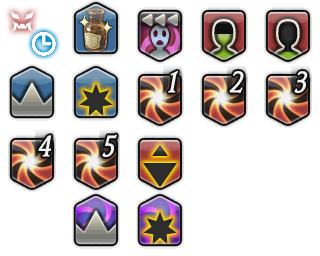
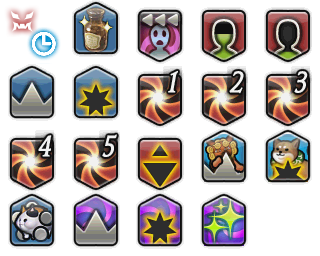
Promo images added/updated. More Status.

diff --git a/DeepDungeonTracker/Data/BossStatusTimerManager.cs b/DeepDungeonTracker/Data/BossStatusTimerManager.cs
@@ -24,9 +24,17 @@ public sealed class BossStatusTimerManager : IDisposable
 
     private ConditionEvent Enervation { get; } = new();
 
+    private ConditionEvent DamageUpHeavenOnHigh { get; } = new();
+
+    private ConditionEvent VulnerabilityDownHeavenOnHigh { get; } = new();
+
+    private ConditionEvent RehabilitationHeavenOnHigh { get; } = new();
+
     private ConditionEvent DamageUpEurekaOrthos { get; } = new();
 
     private ConditionEvent VulnerabilityDownEurekaOrthos { get; } = new();
+
+    private ConditionEvent RehabilitationEurekaOrthos { get; } = new();
 
     public BossStatusTimerManager(BossStatusTimerData bossStatusTimerData)
     {
@@ -48,10 +56,18 @@ public sealed class BossStatusTimerManager : IDisposable
         this.VulnerabilityUp.AddDeactivating(this.VulnerabilityUpDeactivating);
         this.Enervation.AddActivating(this.EnervationActivating);
         this.Enervation.AddDeactivating(this.EnervationDeactivating);
+        this.DamageUpHeavenOnHigh.AddActivating(this.DamageUpHeavenOnHighActivating);
+        this.DamageUpHeavenOnHigh.AddDeactivating(this.DamageUpHeavenOnHighDeactivating);
+        this.VulnerabilityDownHeavenOnHigh.AddActivating(this.VulnerabilityDownHeavenOnHighActivating);
+        this.VulnerabilityDownHeavenOnHigh.AddDeactivating(this.VulnerabilityDownHeavenOnHighDeactivating);
+        this.RehabilitationHeavenOnHigh.AddActivating(this.RehabilitationHeavenOnHighActivating);
+        this.RehabilitationHeavenOnHigh.AddDeactivating(this.RehabilitationHeavenOnHighDeactivating);
         this.DamageUpEurekaOrthos.AddActivating(this.DamageUpEurekaOrthosActivating);
         this.DamageUpEurekaOrthos.AddDeactivating(this.DamageUpEurekaOrthosDeactivating);
         this.VulnerabilityDownEurekaOrthos.AddActivating(this.VulnerabilityDownEurekaOrthosActivating);
         this.VulnerabilityDownEurekaOrthos.AddDeactivating(this.VulnerabilityDownEurekaOrthosDeactivating);
+        this.RehabilitationEurekaOrthos.AddActivating(this.RehabilitationEurekaOrthosActivating);
+        this.RehabilitationEurekaOrthos.AddDeactivating(this.RehabilitationEurekaOrthosDeactivating);
     }
 
     public void Dispose()
@@ -72,10 +88,18 @@ public sealed class BossStatusTimerManager : IDisposable
         this.VulnerabilityUp.RemoveDeactivating(this.VulnerabilityUpDeactivating);
         this.Enervation.RemoveActivating(this.EnervationActivating);
         this.Enervation.RemoveDeactivating(this.EnervationDeactivating);
+        this.DamageUpHeavenOnHigh.RemoveActivating(this.DamageUpHeavenOnHighActivating);
+        this.DamageUpHeavenOnHigh.RemoveDeactivating(this.DamageUpHeavenOnHighDeactivating);
+        this.VulnerabilityDownHeavenOnHigh.RemoveActivating(this.VulnerabilityDownHeavenOnHighActivating);
+        this.VulnerabilityDownHeavenOnHigh.RemoveDeactivating(this.VulnerabilityDownHeavenOnHighDeactivating);
+        this.RehabilitationHeavenOnHigh.RemoveActivating(this.RehabilitationHeavenOnHighActivating);
+        this.RehabilitationHeavenOnHigh.RemoveDeactivating(this.RehabilitationHeavenOnHighDeactivating);
         this.DamageUpEurekaOrthos.RemoveActivating(this.DamageUpEurekaOrthosActivating);
         this.DamageUpEurekaOrthos.RemoveDeactivating(this.DamageUpEurekaOrthosDeactivating);
         this.VulnerabilityDownEurekaOrthos.RemoveActivating(this.VulnerabilityDownEurekaOrthosActivating);
         this.VulnerabilityDownEurekaOrthos.RemoveDeactivating(this.VulnerabilityDownEurekaOrthosDeactivating);
+        this.RehabilitationEurekaOrthos.RemoveActivating(this.RehabilitationEurekaOrthosActivating);
+        this.RehabilitationEurekaOrthos.RemoveDeactivating(this.RehabilitationEurekaOrthosDeactivating);
     }
 
     public void MedicatedActivating() => this.BossStatusTimerData?.Medicated?.Add(new(BossStatusTimer.Medicated));
@@ -110,6 +134,18 @@ public sealed class BossStatusTimerManager : IDisposable
 
     public void EnervationDeactivating() => this.BossStatusTimerData?.Enervation?.LastOrDefault()?.TimerEnd();
 
+    public void DamageUpHeavenOnHighActivating() => this.BossStatusTimerData?.DamageUpHeavenOnHigh?.Add(new(BossStatusTimer.DamageUpHeavenOnHigh));
+
+    public void DamageUpHeavenOnHighDeactivating() => this.BossStatusTimerData?.DamageUpHeavenOnHigh?.LastOrDefault()?.TimerEnd();
+
+    public void VulnerabilityDownHeavenOnHighActivating() => this.BossStatusTimerData?.VulnerabilityDownHeavenOnHigh?.Add(new(BossStatusTimer.VulnerabilityDownHeavenOnHigh));
+
+    public void VulnerabilityDownHeavenOnHighDeactivating() => this.BossStatusTimerData?.VulnerabilityDownHeavenOnHigh?.LastOrDefault()?.TimerEnd();
+
+    public void RehabilitationHeavenOnHighActivating() => this.BossStatusTimerData?.RehabilitationHeavenOnHigh?.Add(new(BossStatusTimer.RehabilitationHeavenOnHigh));
+
+    public void RehabilitationHeavenOnHighDeactivating() => this.BossStatusTimerData?.RehabilitationHeavenOnHigh?.LastOrDefault()?.TimerEnd();
+
     public void DamageUpEurekaOrthosActivating() => this.BossStatusTimerData?.DamageUpEurekaOrthos?.Add(new(BossStatusTimer.DamageUpEurekaOrthos));
 
     public void DamageUpEurekaOrthosDeactivating() => this.BossStatusTimerData?.DamageUpEurekaOrthos?.LastOrDefault()?.TimerEnd();
@@ -117,6 +153,10 @@ public sealed class BossStatusTimerManager : IDisposable
     public void VulnerabilityDownEurekaOrthosActivating() => this.BossStatusTimerData?.VulnerabilityDownEurekaOrthos?.Add(new(BossStatusTimer.VulnerabilityDownEurekaOrthos));
 
     public void VulnerabilityDownEurekaOrthosDeactivating() => this.BossStatusTimerData?.VulnerabilityDownEurekaOrthos?.LastOrDefault()?.TimerEnd();
+
+    public void RehabilitationEurekaOrthosActivating() => this.BossStatusTimerData?.RehabilitationEurekaOrthos?.Add(new(BossStatusTimer.RehabilitationEurekaOrthos));
+
+    public void RehabilitationEurekaOrthosDeactivating() => this.BossStatusTimerData?.RehabilitationEurekaOrthos?.LastOrDefault()?.TimerEnd();
 
     public void Update(BattleChara? enemy)
     {
@@ -139,8 +179,12 @@ public sealed class BossStatusTimerManager : IDisposable
         if (enemy != null)
             this.Enervation.Update(enemy.StatusList.Any(x => x.StatusId == 546));
 
+        this.DamageUpHeavenOnHigh.Update(player.StatusList.Any(x => x.StatusId == 1584));
+        this.VulnerabilityDownHeavenOnHigh.Update(player.StatusList.Any(x => x.StatusId == 1585));
+        this.RehabilitationHeavenOnHigh.Update(player.StatusList.Any(x => x.StatusId == 1586));
         this.DamageUpEurekaOrthos.Update(player.StatusList.Any(x => x.StatusId == 3490));
         this.VulnerabilityDownEurekaOrthos.Update(player.StatusList.Any(x => x.StatusId == 3491));
+        this.RehabilitationEurekaOrthos.Update(player.StatusList.Any(x => x.StatusId == 3492));
     }
 
     public void ResetStatusState()
@@ -153,7 +197,11 @@ public sealed class BossStatusTimerManager : IDisposable
         this.VulnerabilityDown.Update(false);
         this.VulnerabilityUp.Update(false);
         this.Enervation.Update(false);
+        this.DamageUpHeavenOnHigh.Update(false);
+        this.VulnerabilityDownHeavenOnHigh.Update(false);
+        this.RehabilitationHeavenOnHigh.Update(false);
         this.DamageUpEurekaOrthos.Update(false);
         this.VulnerabilityDownEurekaOrthos.Update(false);
+        this.RehabilitationEurekaOrthos.Update(false);
     }
 }

diff --git a/DeepDungeonTracker/Data/BossStatusTimerData.cs b/DeepDungeonTracker/Data/BossStatusTimerData.cs
@@ -69,6 +69,27 @@ public class BossStatusTimerData
     public Collection<BossStatusTimerItem>? SerializationEnervation { get => this.Enervation?.Count > 0 ? this.Enervation : null; private set => this.Enervation = value ?? new(); }
 
     [JsonIgnore]
+    public Collection<BossStatusTimerItem> DamageUpHeavenOnHigh { get; private set; } = new();
+
+    [JsonInclude]
+    [JsonPropertyName("DamageUpHeavenOnHigh")]
+    public Collection<BossStatusTimerItem>? SerializationDamageUpHeavenOnHigh { get => this.DamageUpHeavenOnHigh?.Count > 0 ? this.DamageUpHeavenOnHigh : null; private set => this.DamageUpHeavenOnHigh = value ?? new(); }
+
+    [JsonIgnore]
+    public Collection<BossStatusTimerItem> VulnerabilityDownHeavenOnHigh { get; private set; } = new();
+
+    [JsonInclude]
+    [JsonPropertyName("VulnerabilityDownHeavenOnHigh")]
+    public Collection<BossStatusTimerItem>? SerializationVulnerabilityDownHeavenOnHigh { get => this.VulnerabilityDownHeavenOnHigh?.Count > 0 ? this.VulnerabilityDownHeavenOnHigh : null; private set => this.VulnerabilityDownHeavenOnHigh = value ?? new(); }
+
+    [JsonIgnore]
+    public Collection<BossStatusTimerItem> RehabilitationHeavenOnHigh { get; private set; } = new();
+
+    [JsonInclude]
+    [JsonPropertyName("RehabilitationHeavenOnHigh")]
+    public Collection<BossStatusTimerItem>? SerializationRehabilitationHeavenOnHigh { get => this.RehabilitationHeavenOnHigh?.Count > 0 ? this.RehabilitationHeavenOnHigh : null; private set => this.RehabilitationHeavenOnHigh = value ?? new(); }
+
+    [JsonIgnore]
     public Collection<BossStatusTimerItem> DamageUpEurekaOrthos { get; private set; } = new();
 
     [JsonInclude]
@@ -81,6 +102,13 @@ public class BossStatusTimerData
     [JsonInclude]
     [JsonPropertyName("VulnerabilityDownEurekaOrthos")]
     public Collection<BossStatusTimerItem>? SerializationVulnerabilityDownEurekaOrthos { get => this.VulnerabilityDownEurekaOrthos?.Count > 0 ? this.VulnerabilityDownEurekaOrthos : null; private set => this.VulnerabilityDownEurekaOrthos = value ?? new(); }
+
+    [JsonIgnore]
+    public Collection<BossStatusTimerItem> RehabilitationEurekaOrthos { get; private set; } = new();
+
+    [JsonInclude]
+    [JsonPropertyName("RehabilitationEurekaOrthos")]
+    public Collection<BossStatusTimerItem>? SerializationRehabilitationEurekaOrthos { get => this.RehabilitationEurekaOrthos?.Count > 0 ? this.RehabilitationEurekaOrthos : null; private set => this.RehabilitationEurekaOrthos = value ?? new(); }
 
     public void Update(BattleChara? enemy)
     {
@@ -118,10 +146,22 @@ public class BossStatusTimerData
         foreach (var item in this.Enervation)
             item.TimerEnd();
 
+        foreach (var item in this.DamageUpHeavenOnHigh)
+            item.TimerEnd();
+
+        foreach (var item in this.VulnerabilityDownHeavenOnHigh)
+            item.TimerEnd();
+
+        foreach (var item in this.RehabilitationHeavenOnHigh)
+            item.TimerEnd();
+
         foreach (var item in this.DamageUpEurekaOrthos)
             item.TimerEnd();
 
         foreach (var item in this.VulnerabilityDownEurekaOrthos)
+            item.TimerEnd();
+
+        foreach (var item in this.RehabilitationEurekaOrthos)
             item.TimerEnd();
 
         this.Combat.TimerEnd();
@@ -138,8 +178,12 @@ public class BossStatusTimerData
             this.VulnerabilityDown.Where(DurationMoreThanOneSecond).DistinctBy(x => x.BossStatusTimer).Count() +
             (this.VulnerabilityUp?.Where(DurationMoreThanOneSecond).DistinctBy(x => x.Stacks).Count() ?? 0) +
             this.Enervation.Where(DurationMoreThanOneSecond).DistinctBy(x => x.BossStatusTimer).Count() +
+            this.DamageUpHeavenOnHigh.Where(DurationMoreThanOneSecond).DistinctBy(x => x.BossStatusTimer).Count() +
+            this.VulnerabilityDownHeavenOnHigh.Where(DurationMoreThanOneSecond).DistinctBy(x => x.BossStatusTimer).Count() +
+            this.RehabilitationHeavenOnHigh.Where(DurationMoreThanOneSecond).DistinctBy(x => x.BossStatusTimer).Count() +
             this.DamageUpEurekaOrthos.Where(DurationMoreThanOneSecond).DistinctBy(x => x.BossStatusTimer).Count() +
-            this.VulnerabilityDownEurekaOrthos.Where(DurationMoreThanOneSecond).DistinctBy(x => x.BossStatusTimer).Count();
+            this.VulnerabilityDownEurekaOrthos.Where(DurationMoreThanOneSecond).DistinctBy(x => x.BossStatusTimer).Count() +
+            this.RehabilitationEurekaOrthos.Where(DurationMoreThanOneSecond).DistinctBy(x => x.BossStatusTimer).Count();
     }
 
     public static Collection<BossStatusTimerItem> RemoveLessThanOneSecondDuration(ICollection<BossStatusTimerItem> data)

diff --git a/DeepDungeonTracker/Score/Score.cs b/DeepDungeonTracker/Score/Score.cs
@@ -82,12 +82,12 @@ public abstract class Score
             this.BaseScore = -10;
     }
 
-    private void CharacterScoreCalculation(int level) => this.CharacterScore = (this.AetherpoolArm + this.AetherpoolArmor) * 10 + level * 500;
+    private void CharacterScoreCalculation(int level, int aetherpoolArm, int aetherpoolArmor) => this.CharacterScore = (aetherpoolArm + aetherpoolArmor) * 10 + level * 500;
 
-    private void FloorScoreCalculation()
+    private void FloorScoreCalculation(int aetherpoolArm, int aetherpoolArmor)
     {
         var total = 0;
-        total += (430 - ((198 - this.AetherpoolArm - this.AetherpoolArmor) * 10)) * this.DistanceFromStartingFloor;
+        total += (430 - ((198 - aetherpoolArm - aetherpoolArmor) * 10)) * this.DistanceFromStartingFloor;
         total += (int)(this.CurrentFloorNumber - (this.StartingFloorNumber + Math.Truncate(this.DistanceFromStartingFloor / 10.0))) * 50 * 91;
         total += (int)Math.Truncate(this.DistanceFromStartingFloor / 10.0) * this.Duty * 300;
         total += this.FloorCompletionScoreCalculation();
@@ -164,20 +164,30 @@ public abstract class Score
 
         var currentFloorNumber = this.CurrentFloorNumber;
 
+        var aetherpoolArm = this.AetherpoolArm;
+        var aetherpoolArmor = this.AetherpoolArmor;
         if (scoreCalculationType != ScoreCalculationType.CurrentFloor)
         {
             var floor = this.CurrentFloorNumber;
             if (scoreCalculationType == ScoreCalculationType.ScoreWindowFloor)
+            {
                 floor = currentFloorNumber > this.LastNormalFloorNumber() ? this.LastBonusFloorNumber() : this.LastNormalFloorNumber();
+                aetherpoolArm = 99;
+                aetherpoolArmor = 99;
+            }
             else if (scoreCalculationType == ScoreCalculationType.LastFloor)
+            {
                 floor = this.LastBonusFloorNumber();
+                aetherpoolArm = 99;
+                aetherpoolArmor = 99;
+            }
 
             this.FloorCompletionUpdate(floor);
         }
 
         this.BaseScoreCalculation();
-        this.CharacterScoreCalculation((scoreCalculationType == ScoreCalculationType.CurrentFloor) ? this.CurrentLevel : this.Level());
-        this.FloorScoreCalculation();
+        this.CharacterScoreCalculation((scoreCalculationType == ScoreCalculationType.CurrentFloor) ? this.CurrentLevel : this.Level(), aetherpoolArm, aetherpoolArmor);
+        this.FloorScoreCalculation(aetherpoolArm, aetherpoolArmor);
         this.MapScoreCalculation();
         this.CofferScoreCalculation();
         this.NPCScoreCalculation();

diff --git a/DeepDungeonTracker/Window/ConfigurationWindow.cs b/DeepDungeonTracker/Window/ConfigurationWindow.cs
@@ -203,10 +203,10 @@ public sealed class ConfigurationWindow : WindowEx, IDisposable
         this.Combo(config.FontType, x => config.FontType = x, "Font");
         this.Combo(config.ScoreCalculationType, x => config.ScoreCalculationType = x, "Score Calculation");
         WindowEx.Tooltip(
-            "Current Floor: Include all floor completion-related score up to the current floor and current character level.\nYou can see your score progressively increasing each time you go to the next floor or level up.\n\n" +
+            "Current Floor: Include all floor completion-related score up to the current floor, current character level and Aetherpool.\nYou can see your score progressively increasing each time you go to the next floor, level up or upgrade your Aetherpool.\n\n" +
             "Score Window Floor: Include all floor completion-related score up to the floor where it shows the next score window.\n\n" +
             "Last Floor: Include all floor completion-related score at once.\n\n" +
-            "Floor completion-related score has nothing to do with map reveals, and this also affects the points earned by killing enemies.\nIt's recommended to change this option before starting a fresh save file.");
+            "Floor completion-related score has nothing to do with map reveals; this also affects the points earned by killing enemies, and it will assume Aetherpool at max level.\nIt's recommended to change this option before starting a fresh save file.");
         this.DragFloat(config.Scale, x => config.Scale = x, "Scale", 0.01f, 0.25f, 2.0f, "%.2f");
         this.CheckBox(config.IsFlyTextScoreVisible, x => config.IsFlyTextScoreVisible = x, "##IsFlyTextScoreVisible");
         WindowEx.Tooltip("When the score changes, a Fly Text will be shown.");

diff --git a/DeepDungeonTracker/Window/BossStatusTimerWindow.cs b/DeepDungeonTracker/Window/BossStatusTimerWindow.cs
@@ -192,9 +192,13 @@ public sealed class BossStatusTimerWindow : WindowEx, IDisposable
 
         Draw(BossStatusTimer.Medicated, data.Medicated);
         Draw(BossStatusTimer.DamageUp, data.DamageUp);
+        Draw(BossStatusTimer.DamageUpHeavenOnHigh, data.DamageUpHeavenOnHigh);
         Draw(BossStatusTimer.DamageUpEurekaOrthos, data.DamageUpEurekaOrthos);
         Draw(BossStatusTimer.VulnerabilityDown, data.VulnerabilityDown);
+        Draw(BossStatusTimer.VulnerabilityDownHeavenOnHigh, data.VulnerabilityDownHeavenOnHigh);
         Draw(BossStatusTimer.VulnerabilityDownEurekaOrthos, data.VulnerabilityDownEurekaOrthos);
+        Draw(BossStatusTimer.RehabilitationHeavenOnHigh, data.RehabilitationHeavenOnHigh);
+        Draw(BossStatusTimer.RehabilitationEurekaOrthos, data.RehabilitationEurekaOrthos);
 
         if (data.VulnerabilityUp.Count > 0)
         {

diff --git a/DeepDungeonTracker/Data/DataCommon.cs b/DeepDungeonTracker/Data/DataCommon.cs
@@ -90,6 +90,11 @@ public sealed class DataCommon : IDisposable
 
         if (this.DutyStatus != DutyStatus.Complete)
             this.CurrentSaveSlot?.KOed();
+        else
+        {
+            if (this.IsLastFloor || this.IsSpecialBossFloor)
+                this.CurrentSaveSlot?.CurrentFloorSet()?.EndBossStatusTimer();
+        }
 
         if (this.DutyStatus == DutyStatus.None)
         {
@@ -99,9 +104,6 @@ public sealed class DataCommon : IDisposable
         }
         else
             this.FloorScoreUpdate(this.CurrentSaveSlot?.CurrentFloor()?.Score);
-
-        if (this.IsLastFloor || this.IsSpecialBossFloor)
-            this.CurrentSaveSlot?.CurrentFloorSet()?.EndBossStatusTimer();
 
         this.SaveDeepDungeonData();
     }

diff --git a/DeepDungeonTracker/Enum/BossStatusTimer.cs b/DeepDungeonTracker/Enum/BossStatusTimer.cs
@@ -11,6 +11,10 @@ public enum BossStatusTimer
     VulnerabilityDown,
     VulnerabilityUp,
     Enervation = 12,
-    DamageUpEurekaOrthos = 16,
-    VulnerabilityDownEurekaOrthos
+    DamageUpHeavenOnHigh,
+    VulnerabilityDownHeavenOnHigh,
+    RehabilitationHeavenOnHigh,
+    DamageUpEurekaOrthos,
+    VulnerabilityDownEurekaOrthos,
+    RehabilitationEurekaOrthos
 }
